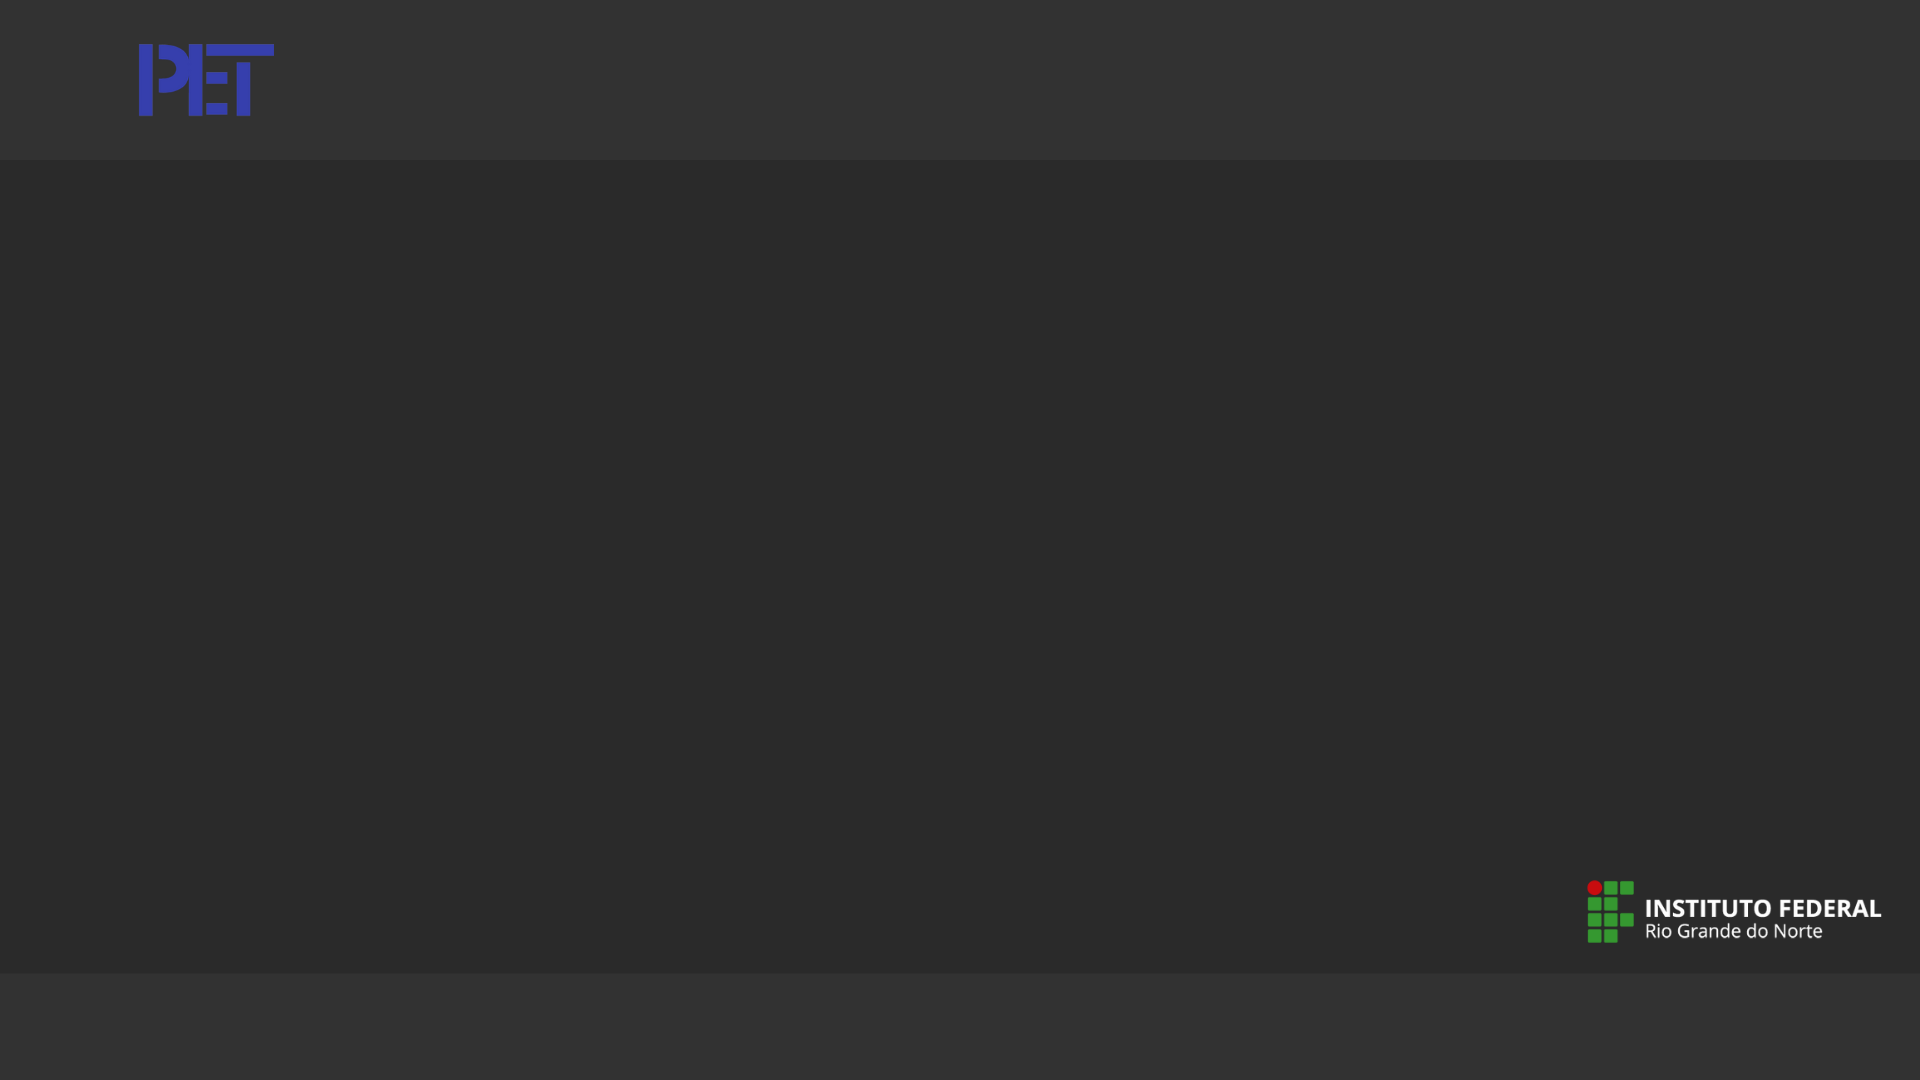
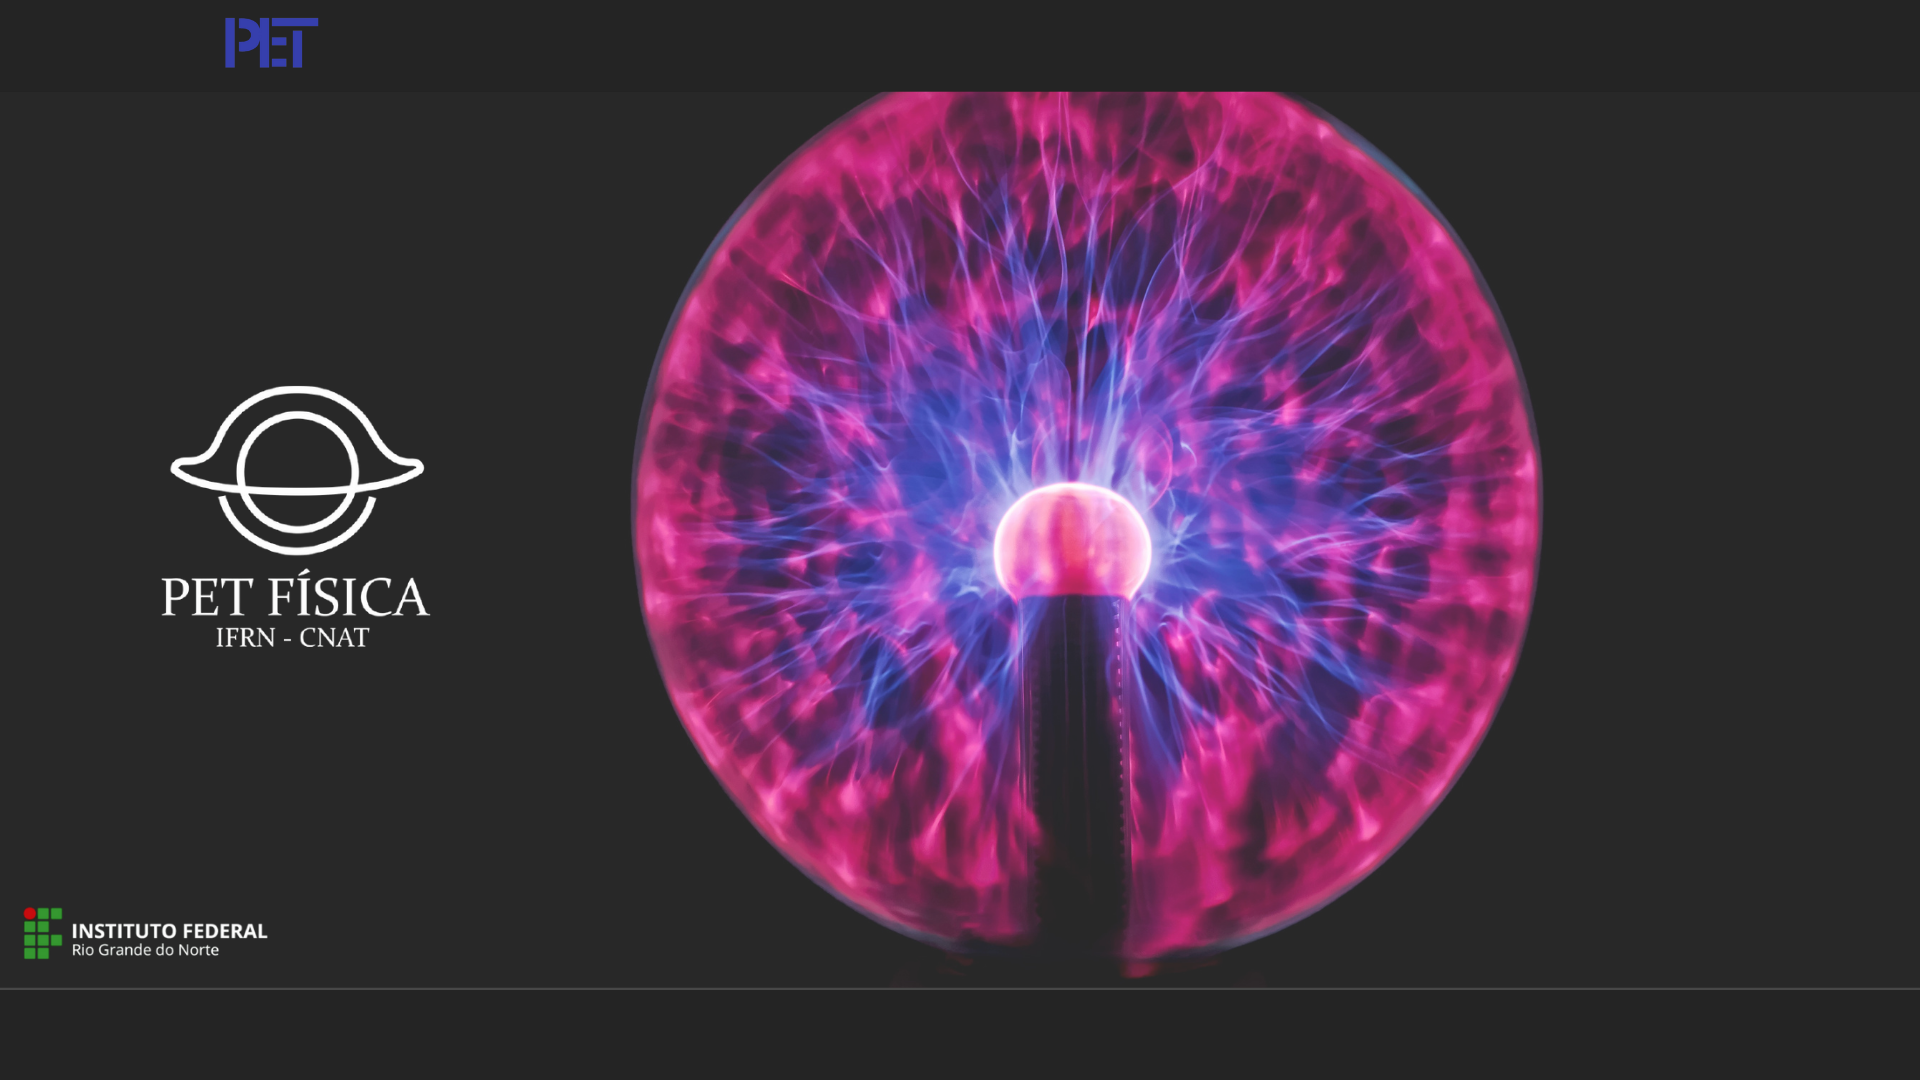
Add files via upload

diff --git a/index.html b/index.html
@@ -11,25 +11,12 @@
 	<body>
 
 </div>
-					 <div style="text-align:left">
-					 <img style="margin-top:19%;margin-left:10%;width:20%" src="assets/1.svg" class="test">
- 				  	 <img style="margin-top:15%;margin-left:-20.3%;width:20%" src="assets/2.svg" class="test1">
-					    <img style="margin-top:15%;margin-left:-20.3%;width:20%" src="assets/3.svg" class="test2">
-						   <img style="margin-top:15%;margin-left:-20.3%;width:20%" src="assets/4.svg" class="test3">
-						    <img style="margin-top:15%;margin-left:-20.3%;width:20%" src="assets/5.svg" class="test4">
-							   <img style="margin-top:15%;margin-left:-20.3%;width:20%" src="assets/6.svg" class="test5">
-							    <img style="margin-top:15%;margin-left:-20.3%;width:20%" src="assets/7.svg" class="test6">
-								   <img style="margin-top:15%;margin-left:-20.3%;width:20%" src="assets/8.svg" class="test7">
-									   <img style="margin-top:15%;margin-left:-20.3%;width:20%" src="assets/10.svg" class="test9">
-									    <img style="margin-top:15%;margin-left:-20.3%;width:20%" src="assets/11.svg" class="test10">
-
-												</div>
 
 										   <p style="font-family: 'Open Sans'; font-size:15px;color:#FFFFFF"><a href="https://matheuscars.github.io/pet/" class="link">Início</a></p>
 										   <p style="font-family: 'Open Sans'; font-size:15px;color:#FFFFFF"><a href="https://matheuscars.github.io/pet/" class="link1">Cursos e Pesquisas</a></p>
 											 <p style="font-family: 'Open Sans'; font-size:15px;color:#FFFFFF"><a href="https://matheuscars.github.io/pet/" class="link2">Materiais</a></p>
 											 <p style="font-family: 'Open Sans'; font-size:15px;color:#FFFFFF"><a href="https://matheuscars.github.io/pet/" class="link3">Monitorias</a></p>
                        <p style="font-family: 'Open Sans'; font-size:15px;color:#FFFFFF"><a href="https://matheuscars.github.io/pet/" class="link4">Sobre o PET</a></p>
-											 <p style="font-family: 'Open Sans'; font-size:14px;color:#FFFFFF;margin-top:12%;margin-left:37%" class="desen">© Desenvolvido por Jonathas Matheus e Arthur Beserra</p>
+											 <p style="font-family: 'Open Sans'; font-size:14px;color:#FFFFFF;margin-top:52%;margin-left:39%" class="desen">© Desenvolvido por Jonathas Matheus e Arthur Beserra</p>
 	</body>
 </html>

diff --git a/style.css b/style.css
@@ -5,57 +5,13 @@
 body
 {
 
-    background: #323232 url("assets/fundo.png");
+    background: #323232 url("assets/background.png");
     background-size: 99.5%;
     background-repeat: no-repeat;
     background-position: top center;
     background-attachment: local;
 }
-
-
-
-
-.test{
-animation: loading 115s linear infinite;
-}
-.test1{
-animation: loading 120s linear infinite;
-}
-.test2{
-animation: loading 105s linear infinite;
-}
-.test3{
-animation: loading 110s linear infinite;
-}
-.test4{
-animation: loading 65s linear infinite;
-}
-.test5{
-animation: loading 85s linear infinite;
-}
-.test6{
-animation: loading 70s linear infinite;
-}
-.test7{
-animation: loading 75s linear infinite;
-}
-.test8{
-animation: loading 95s linear infinite;
-position: absolute;
-top:268px;
-}
-.test9{
-animation: loading 80s linear infinite;
-}
-.test10{
-animation: loading 90s linear infinite;
-}
-
-.PET1{
-	position: absolute;
-	top:165px;
-}
-@keyframes loading {
+ding {
 0%{
 	transform: rotate(0);
 }
@@ -168,34 +124,34 @@ font-family: -apple-system, BlinkMacSystemFont, "Segoe UI", Helvetica, Arial, sa
  text-decoration:none;
  color: #F8F8FF;
  position: absolute;
- top: 28px;
+ top: 22px;
  left: 300px;
 }
 .link1{
  text-decoration:none;
  color: #F8F8FF;
  position: absolute;
- top: 28px;
+ top: 22px;
  left: 390px;
 }
 .link2{
  text-decoration:none;
  color: #F8F8FF;
  position: absolute;
- top: 28px;
+ top: 22px;
  left: 570px;
 }
 .link3{
  text-decoration:none;
  color: #F8F8FF;
  position: absolute;
- top: 28px;
+ top: 22px;
  left: 685px;
 }
 .link4  {
  text-decoration:none;
  color: #F8F8FF;
  position: absolute;
- top: 28px;
+ top: 22px;
  left: 805px;
 }
